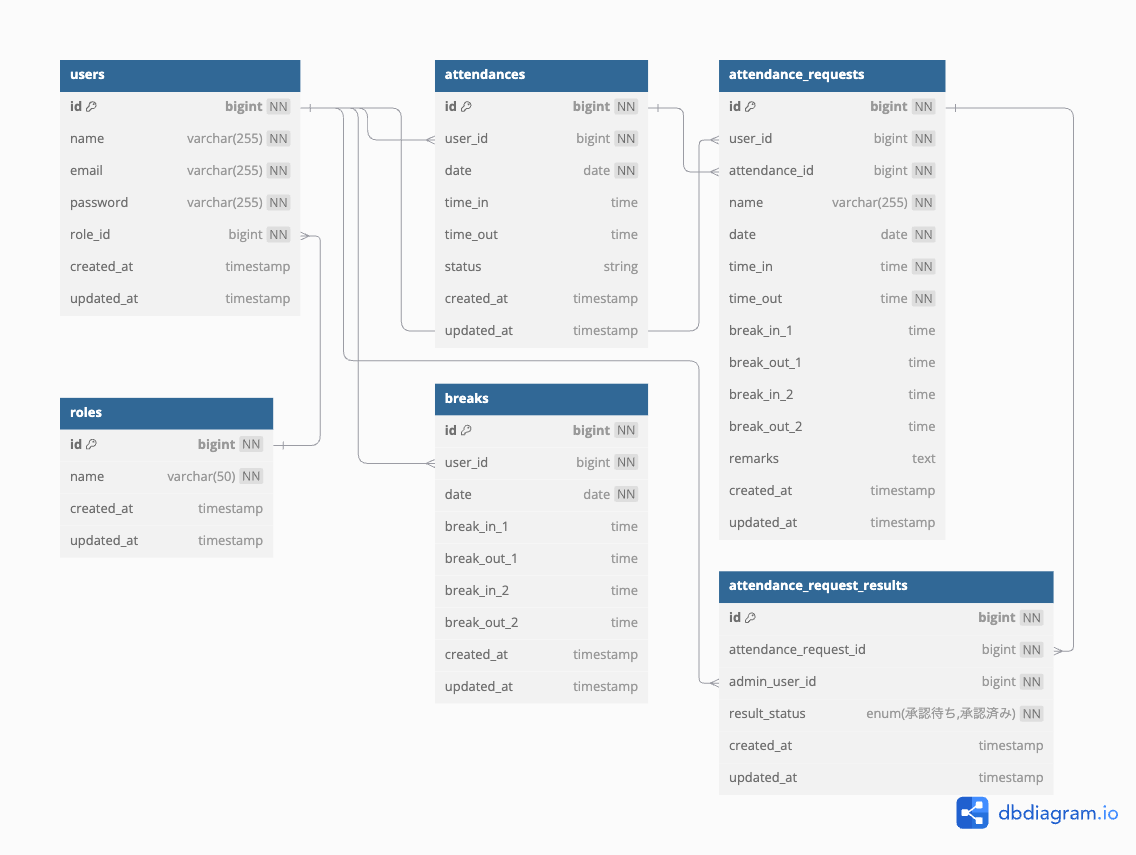
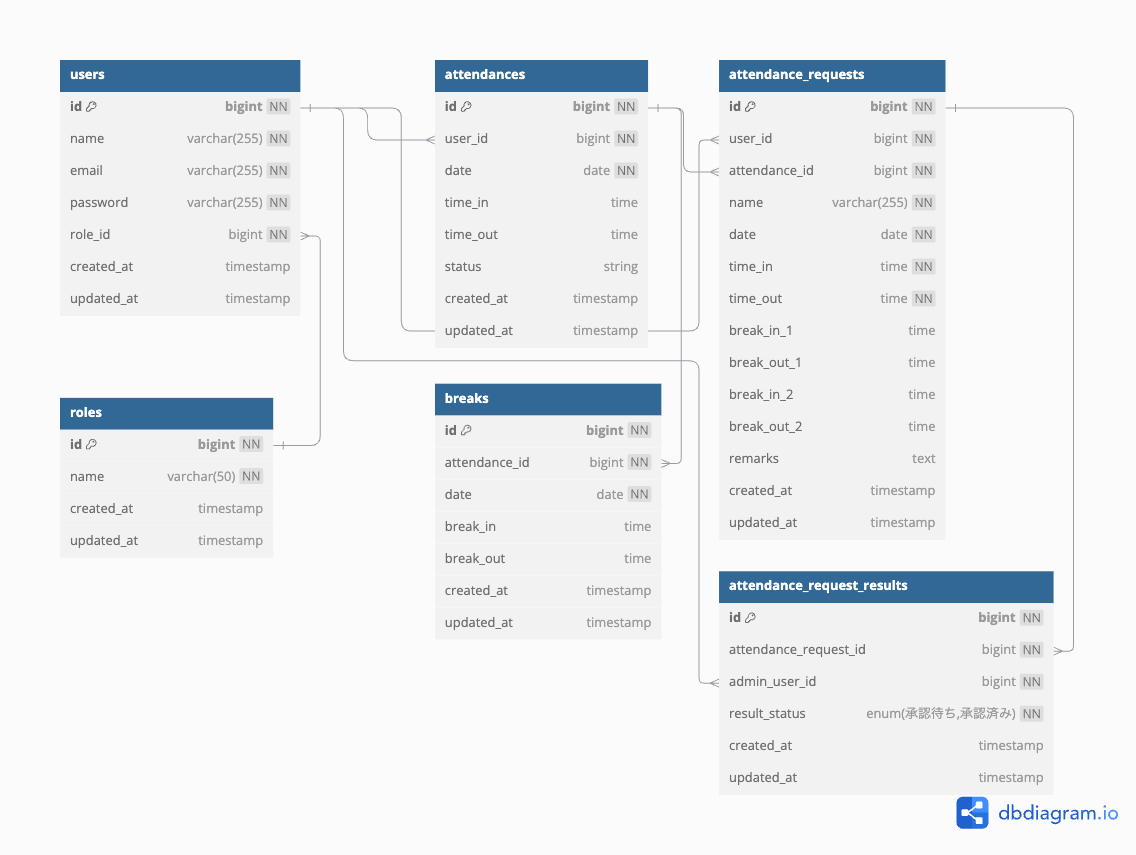
勤怠詳細(詳細情報の取得)

diff --git a/src/app/Http/Controllers/AttendanceController.php b/src/app/Http/Controllers/AttendanceController.php
@@ -49,17 +49,16 @@ class AttendanceController extends Controller
         // ステータス変更処理
         $this->updateStatus($user, 'break');
 
-        // 休憩レコードの作成または更新
-        $breakTime = BreakTime::firstOrCreate(
-            ['user_id' => $user->id, 'date' => today()->toDateString()],
-            ['break_in_1' => now()]
-        );
+        // 勤怠データを取得
+        $attendance = Attendance::where('user_id', $user->id)
+            ->where('date', today()->toDateString())
+            ->firstOrFail();
 
-        if (!$breakTime->break_in_1) {
-            $breakTime->update(['break_in_1' => now()]);
-        } elseif (!$breakTime->break_in_2) {
-            $breakTime->update(['break_in_2' => now()]);
-        }
+        // 新しい休憩レコードを作成
+        BreakTime::create([
+            'attendance_id' => $attendance->id,
+            'break_in' => now(), // 休憩開始時間を記録
+        ]);
 
         return redirect()->route('attendance.form');
     }
@@ -74,16 +73,21 @@ class AttendanceController extends Controller
         // ステータス変更処理
         $this->updateStatus($user, 'working');
 
-        // 休憩終了時間の記録
-        $breakTime = BreakTime::where('user_id', $user->id)
+        // 勤怠データを取得
+        $attendance = Attendance::where('user_id', $user->id)
             ->where('date', today()->toDateString())
             ->firstOrFail();
 
-        if ($breakTime->break_in_1 && !$breakTime->break_out_1) {
-            $breakTime->update(['break_out_1' => now()]);
-        } elseif ($breakTime->break_in_2 && !$breakTime->break_out_2) {
-            $breakTime->update(['break_out_2' => now()]);
-        }
+        // 最後の休憩レコードを取得
+        $breakTime = BreakTime::where('attendance_id', $attendance->id)
+            ->whereNull('break_out') // まだ終了していない休憩を取得
+            ->latest('break_in') // 最新の休憩を取得
+            ->firstOrFail();
+
+        // 休憩終了時間を記録
+        $breakTime->update([
+            'break_out' => now(),
+        ]);
 
         return redirect()->route('attendance.form');
     }
@@ -159,52 +163,36 @@ class AttendanceController extends Controller
 
     public function details($date)
 {
-    // ログインユーザーを取得
-    $user = Auth::user();
+    $attendance = Attendance::where('date', $date)->where('user_id', auth()->id())->firstOrFail();
+    $breakTimes = BreakTime::where('attendance_id', $attendance->id)->get();
 
-    // 指定された日の勤怠情報を取得
-    $attendance = Attendance::where('user_id', $user->id)
-        ->where('date', $date)
-        ->first();
-
-    // 休憩情報を取得
-    $breakTime = BreakTime::where('user_id', $user->id)
-        ->where('date', $date)
-        ->first();
-
-    // 勤怠詳細画面を表示
     return view('users.attendance_details', [
         'attendance' => $attendance,
-        'breakTime' => $breakTime,
+        'breakTimes' => $breakTimes,
         'date' => $date,
     ]);
 }
+
 public function update(Request $request, $date)
 {
-    $user = Auth::user();
-
-    // 勤怠情報を取得または新規作成
-    $attendance = Attendance::firstOrNew([
-        'user_id' => $user->id,
-        'date' => $date,
-    ]);
-
-    // 入力内容を保存
+    $attendance = Attendance::where('date', $date)->where('user_id', auth()->id())->firstOrFail();
     $attendance->time_in = $request->input('time_in');
     $attendance->time_out = $request->input('time_out');
     $attendance->remarks = $request->input('remarks');
     $attendance->save();
 
-    // 休憩情報を保存
-    $breakTime = BreakTime::firstOrNew([
-        'user_id' => $user->id,
-        'date' => $date,
-    ]);
+    if ($request->has('breaks')) {
+        foreach ($request->input('breaks') as $key => $break) {
+            if (!empty($break['break_in']) && !empty($break['break_out'])) {
+                BreakTime::updateOrCreate(
+                    ['attendance_id' => $attendance->id, 'break_in' => $break['break_in']],
+                    ['break_out' => $break['break_out']]
+                );
+            }
+        }
+    }
 
-    $breakTime->break_in_1 = $request->input('break_in_1');
-    $breakTime->break_out_1 = $request->input('break_out_1');
-    $breakTime->save();
-
-    return redirect()->route('attendance.list')->with('success', '修正が完了しました。');
+    return redirect()->route('attendance.details', ['date' => $date])
+        ->with('success', '勤怠情報を更新しました！');
 }
 }

diff --git a/src/resources/views/users/attendance_list.blade.php b/src/resources/views/users/attendance_list.blade.php
@@ -55,38 +55,30 @@
                 @endphp
 
                 @for ($date = $startOfMonth; $date <= $endOfMonth; $date->addDay())
-                    <tr>
-                        @php
-                            // 現在の日付に対応する勤怠データを取得
-                            $attendance = $attendanceMap->get($date->toDateString());
-                            $breakInstance = $attendance ? \App\Models\BreakTime::where('user_id', $attendance->user_id)
-                                ->where('date', $attendance->date)
-                                ->first() : null;
+                    @php
+                        // 現在の日付に対応する勤怠データを取得
+                        $attendance = $attendanceMap->get($date->toDateString());
 
-                            $totalBreakTime = 0;
-
-                            if ($breakInstance) {
-                                // 1回目の休憩時間を計算
-                                if ($breakInstance->break_in_1 && $breakInstance->break_out_1) {
-                                    $totalBreakTime += \Carbon\Carbon::parse($breakInstance->break_in_1)
-                                        ->diffInMinutes(\Carbon\Carbon::parse($breakInstance->break_out_1));
-                                }
-
-                                // 2回目の休憩時間を計算
-                                if ($breakInstance->break_in_2 && $breakInstance->break_out_2) {
-                                    $totalBreakTime += \Carbon\Carbon::parse($breakInstance->break_in_2)
-                                        ->diffInMinutes(\Carbon\Carbon::parse($breakInstance->break_out_2));
+                        // 休憩時間の合計を計算
+                        $totalBreakTime = 0;
+                        if ($attendance) {
+                            $breaks = $attendance->breakTimes; // リレーションを使用して取得
+                            foreach ($breaks as $break) {
+                                if ($break->break_in && $break->break_out) {
+                                    $totalBreakTime += \Carbon\Carbon::parse($break->break_in)
+                                        ->diffInMinutes(\Carbon\Carbon::parse($break->break_out));
                                 }
                             }
+                        }
 
-                            // 合計時間の計算
-                            $timeIn = $attendance ? \Carbon\Carbon::parse($attendance->time_in) : null;
-                            $timeOut = $attendance ? \Carbon\Carbon::parse($attendance->time_out) : null;
+                        // 勤務時間の計算
+                        $timeIn = $attendance ? \Carbon\Carbon::parse($attendance->time_in) : null;
+                        $timeOut = $attendance ? \Carbon\Carbon::parse($attendance->time_out) : null;
 
-                            $totalMinutes = ($timeIn && $timeOut) 
-                                ? $timeIn->diffInMinutes($timeOut) - $totalBreakTime 
-                                : 0;
-                        @endphp
+                        $totalMinutes = ($timeIn && $timeOut)
+                            ? $timeIn->diffInMinutes($timeOut) - $totalBreakTime
+                            : 0;
+                    @endphp
 
                         <!-- 日付 -->
                         <td class="attendance-date">{{ $date->format('m/d') }}（{{ $date->isoFormat('ddd') }}）</td>

diff --git a/src/resources/views/users/attendance_details.blade.php b/src/resources/views/users/attendance_details.blade.php
@@ -19,19 +19,45 @@
                     <th>出勤・退勤</th>
                     <td>
                         <div class="d-flex align-items-center">
-                            <input type="time" name="time_in" value="{{ $attendance->time_in }}" class="form-control me-2">
+                            <input type="text" name="time_in" 
+                                   value="{{ $attendance->time_in ? \Carbon\Carbon::parse($attendance->time_in)->format('H:i') : '' }}" 
+                                   class="form-control me-2">
                             〜
-                            <input type="time" name="time_out" value="{{ $attendance->time_out }}" class="form-control ms-2">
+                            <input type="text" name="time_out" 
+                                   value="{{ $attendance->time_out ? \Carbon\Carbon::parse($attendance->time_out)->format('H:i') : '' }}" 
+                                   class="form-control ms-2">
                         </div>
                     </td>
                 </tr>
                 <tr>
                     <th>休憩</th>
                     <td>
-                        <div class="d-flex align-items-center">
-                            <input type="time" name="break_in_1" value="{{ $breakTime->break_in_1 ?? '' }}" class="form-control me-2">
+                        <!-- 既存の休憩データをループで表示 -->
+                        <div id="break-fields">
+                            @if ($breakTimes && $breakTimes->count() > 0)
+                                @foreach ($breakTimes as $index => $break)
+                                    <div class="d-flex align-items-center mb-2">
+                                        <span class="me-2">休憩{{ $index + 1 }}</span>
+                                        <input type="text" name="breaks[{{ $index }}][break_in]" 
+                                               value="{{ $break->break_in ? \Carbon\Carbon::parse($break->break_in)->format('H:i') : '' }}" 
+                                               class="form-control me-2" >
+                                        〜
+                                        <input type="text" name="breaks[{{ $index }}][break_out]" 
+                                               value="{{ $break->break_out ? \Carbon\Carbon::parse($break->break_out)->format('H:i') : '' }}" 
+                                               class="form-control ms-2" >
+                                    </div>
+                                @endforeach
+                            @endif
+                        </div>
+
+                        <!-- 新しい休憩フィールド -->
+                        <div class="d-flex align-items-center mt-2">
+                            <span class="me-2">休憩{{ $index + 2 }}</span>
+                            <input type="text" name="breaks[new][break_in]" 
+                                   value="" class="form-control me-2" >
                             〜
-                            <input type="time" name="break_out_1" value="{{ $breakTime->break_out_1 ?? '' }}" class="form-control ms-2">
+                            <input type="text" name="breaks[new][break_out]" 
+                                   value="" class="form-control ms-2" >
                         </div>
                     </td>
                 </tr>

diff --git a/src/database/migrations/2025_04_16_224319_create_breaks_table.php b/src/database/migrations/2025_04_16_224319_create_breaks_table.php
@@ -13,12 +13,10 @@ return new class extends Migration
     {
         Schema::create('breaks', function (Blueprint $table) {
             $table->id();
-            $table->foreignId('user_id')->constrained('users');
-            $table->date('date');
-            $table->time('break_in_1')->nullable();
-            $table->time('break_out_1')->nullable();
-            $table->time('break_in_2')->nullable();
-            $table->time('break_out_2')->nullable();
+            $table->unsignedBigInteger('attendance_id'); // カラム定義
+            $table->foreign('attendance_id')->references('id')->on('attendances')->onDelete('cascade'); // 外部キー制約
+            $table->time('break_in')->nullable(); // 休憩開始
+            $table->time('break_out')->nullable(); // 休憩終了
             $table->timestamps();
         });
     }

diff --git a/src/app/Models/BreakTime.php b/src/app/Models/BreakTime.php
@@ -12,17 +12,11 @@ class BreakTime extends Model
     protected $table = 'breaks';
 
     protected $fillable = [
-        'user_id',
-        'date',
-        'break_in_1',
-        'break_out_1',
-        'break_in_2',
-        'break_out_2',
+        'attendance_id', 'break_in', 'break_out'
     ];
 
-    // Userとのリレーション
-    public function user()
+    public function attendance()
     {
-        return $this->belongsTo(User::class);
+        return $this->belongsTo(Attendance::class);
     }
 }

diff --git a/src/app/Models/Attendance.php b/src/app/Models/Attendance.php
@@ -28,4 +28,9 @@ class Attendance extends Model
     {
         return $this->hasMany(AttendanceRequest::class);
     }
+    // 休憩時間とのリレーション
+    public function breakTimes()
+    {
+        return $this->hasMany(BreakTime::class);
+    }
 }
